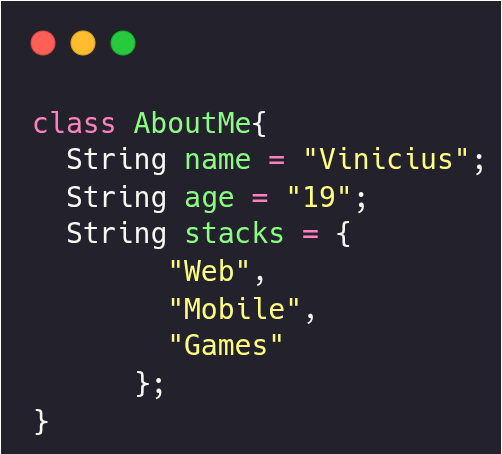
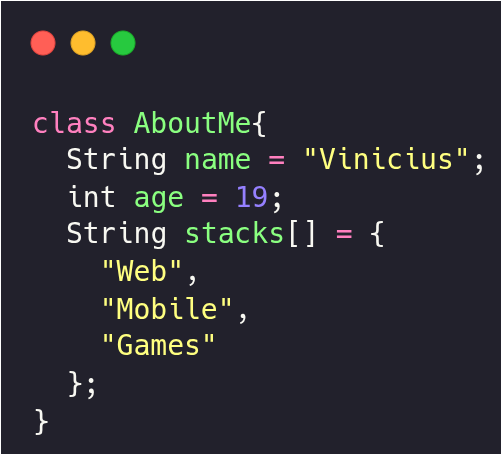
"upload"

diff --git a/README.md b/README.md
@@ -1,8 +1,6 @@
 ## Olá, me chamo Vini 🍀.
 
-* 19y
-* Web 💻, Mobile 📱 and Games 🕹.
-* DevSys ⚙
+<img align="center" src="about_me.png" />
 
 <hr>
 
